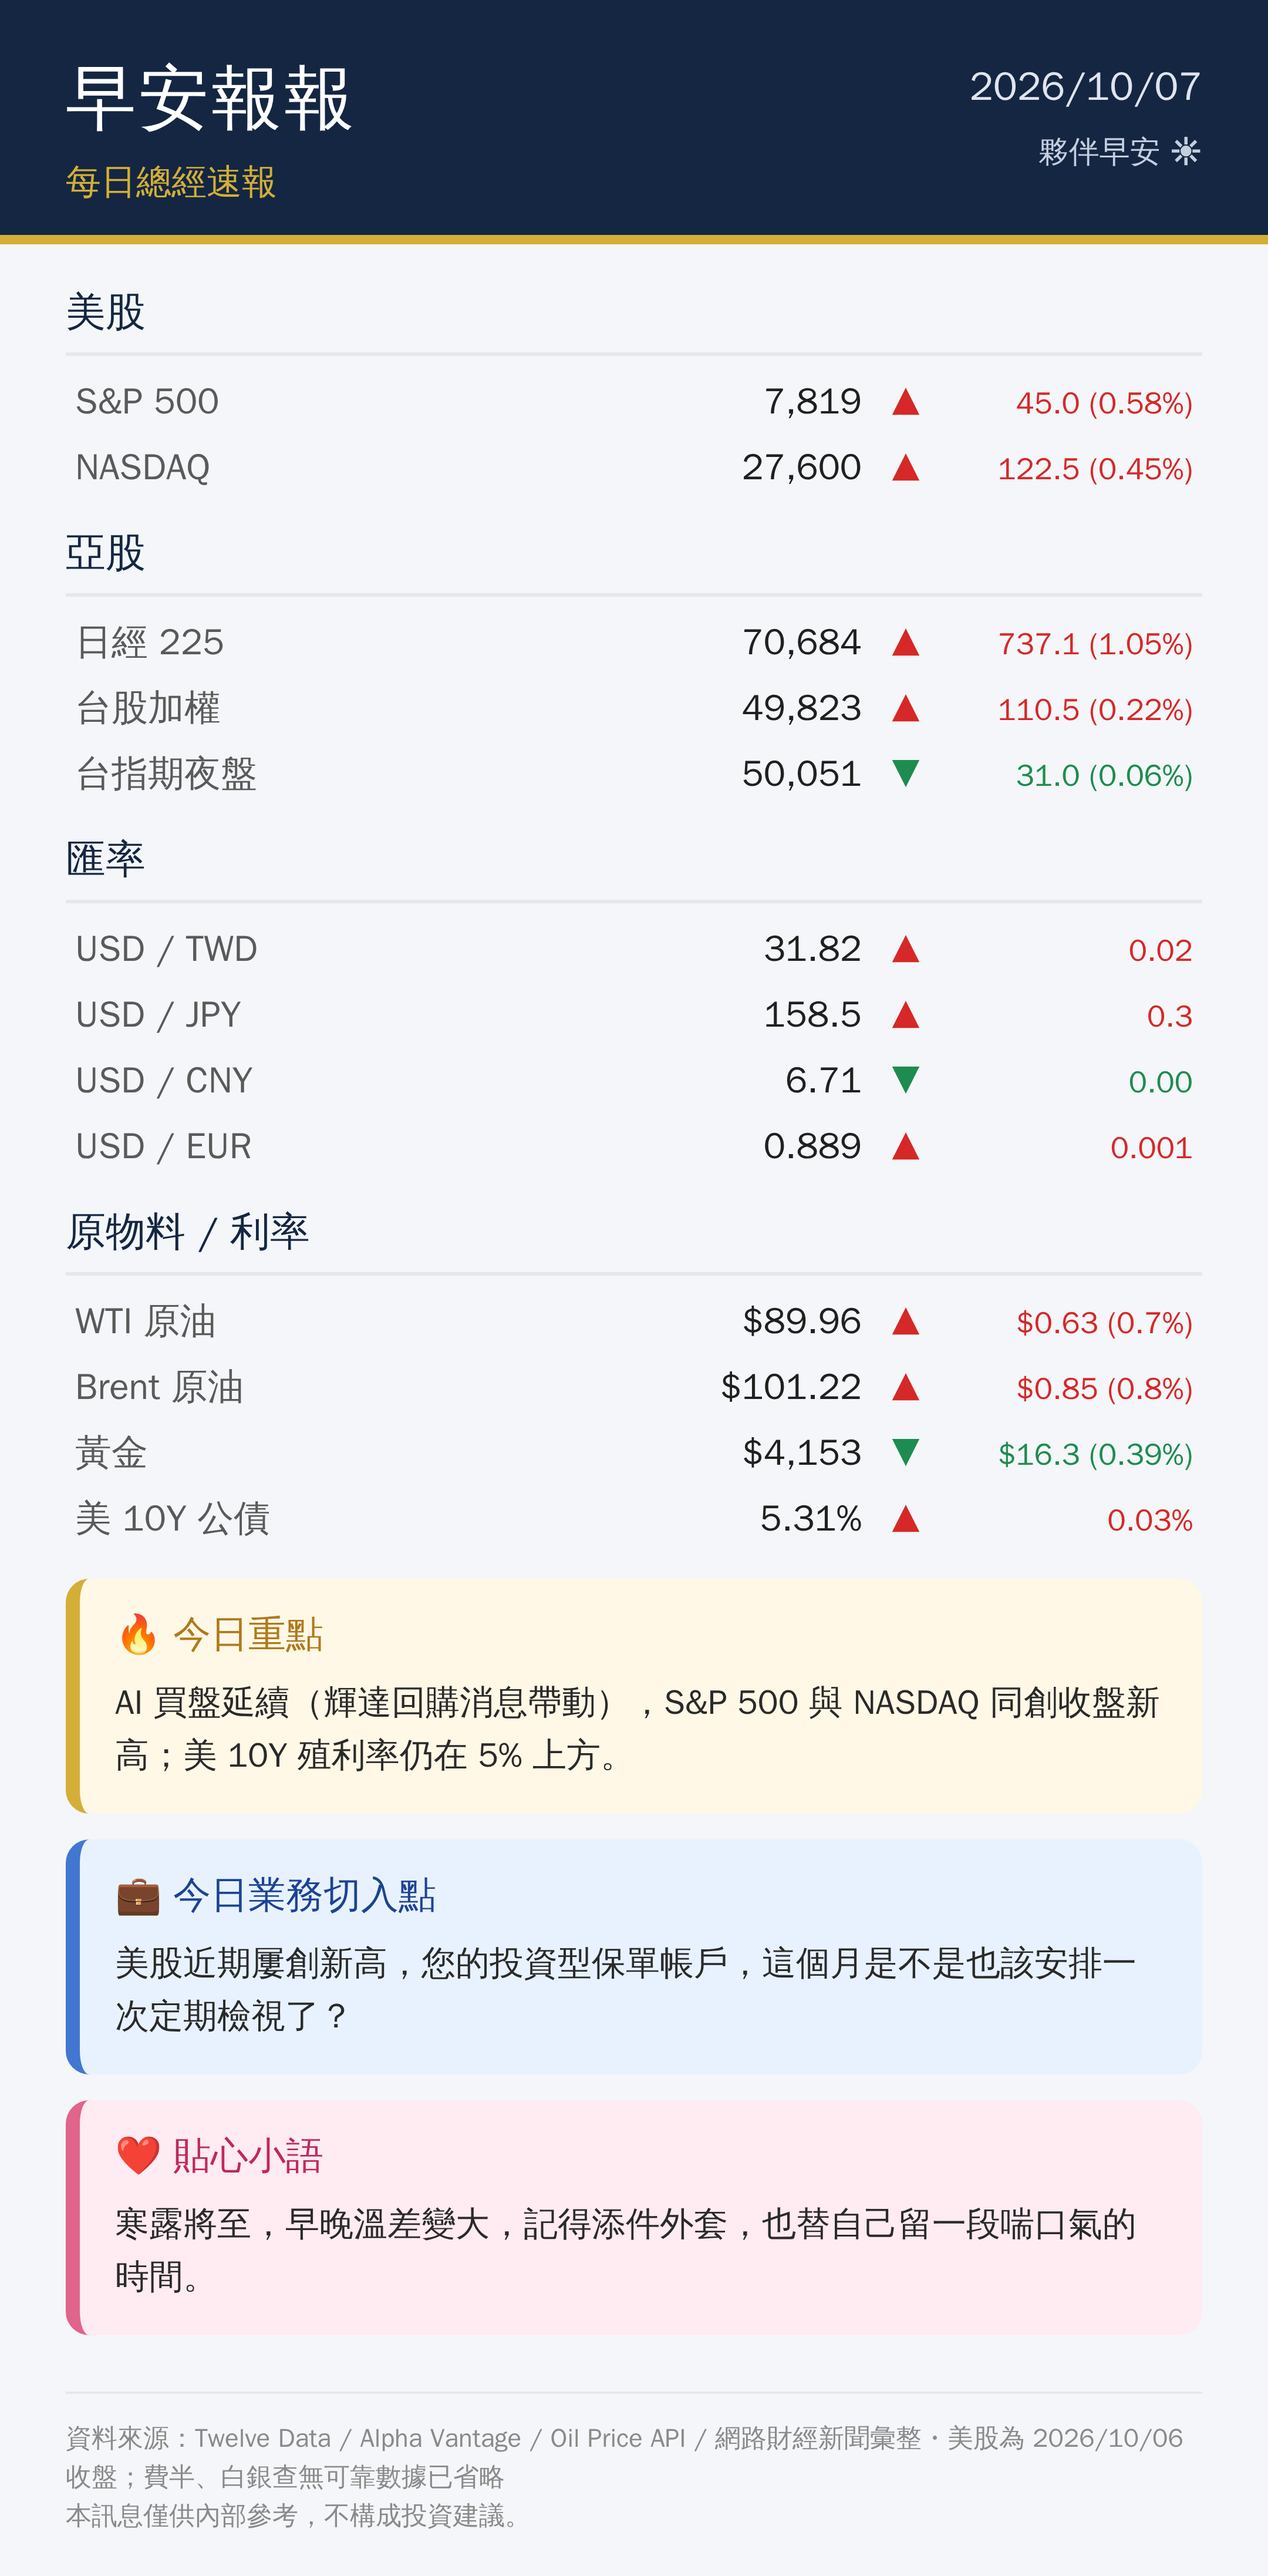
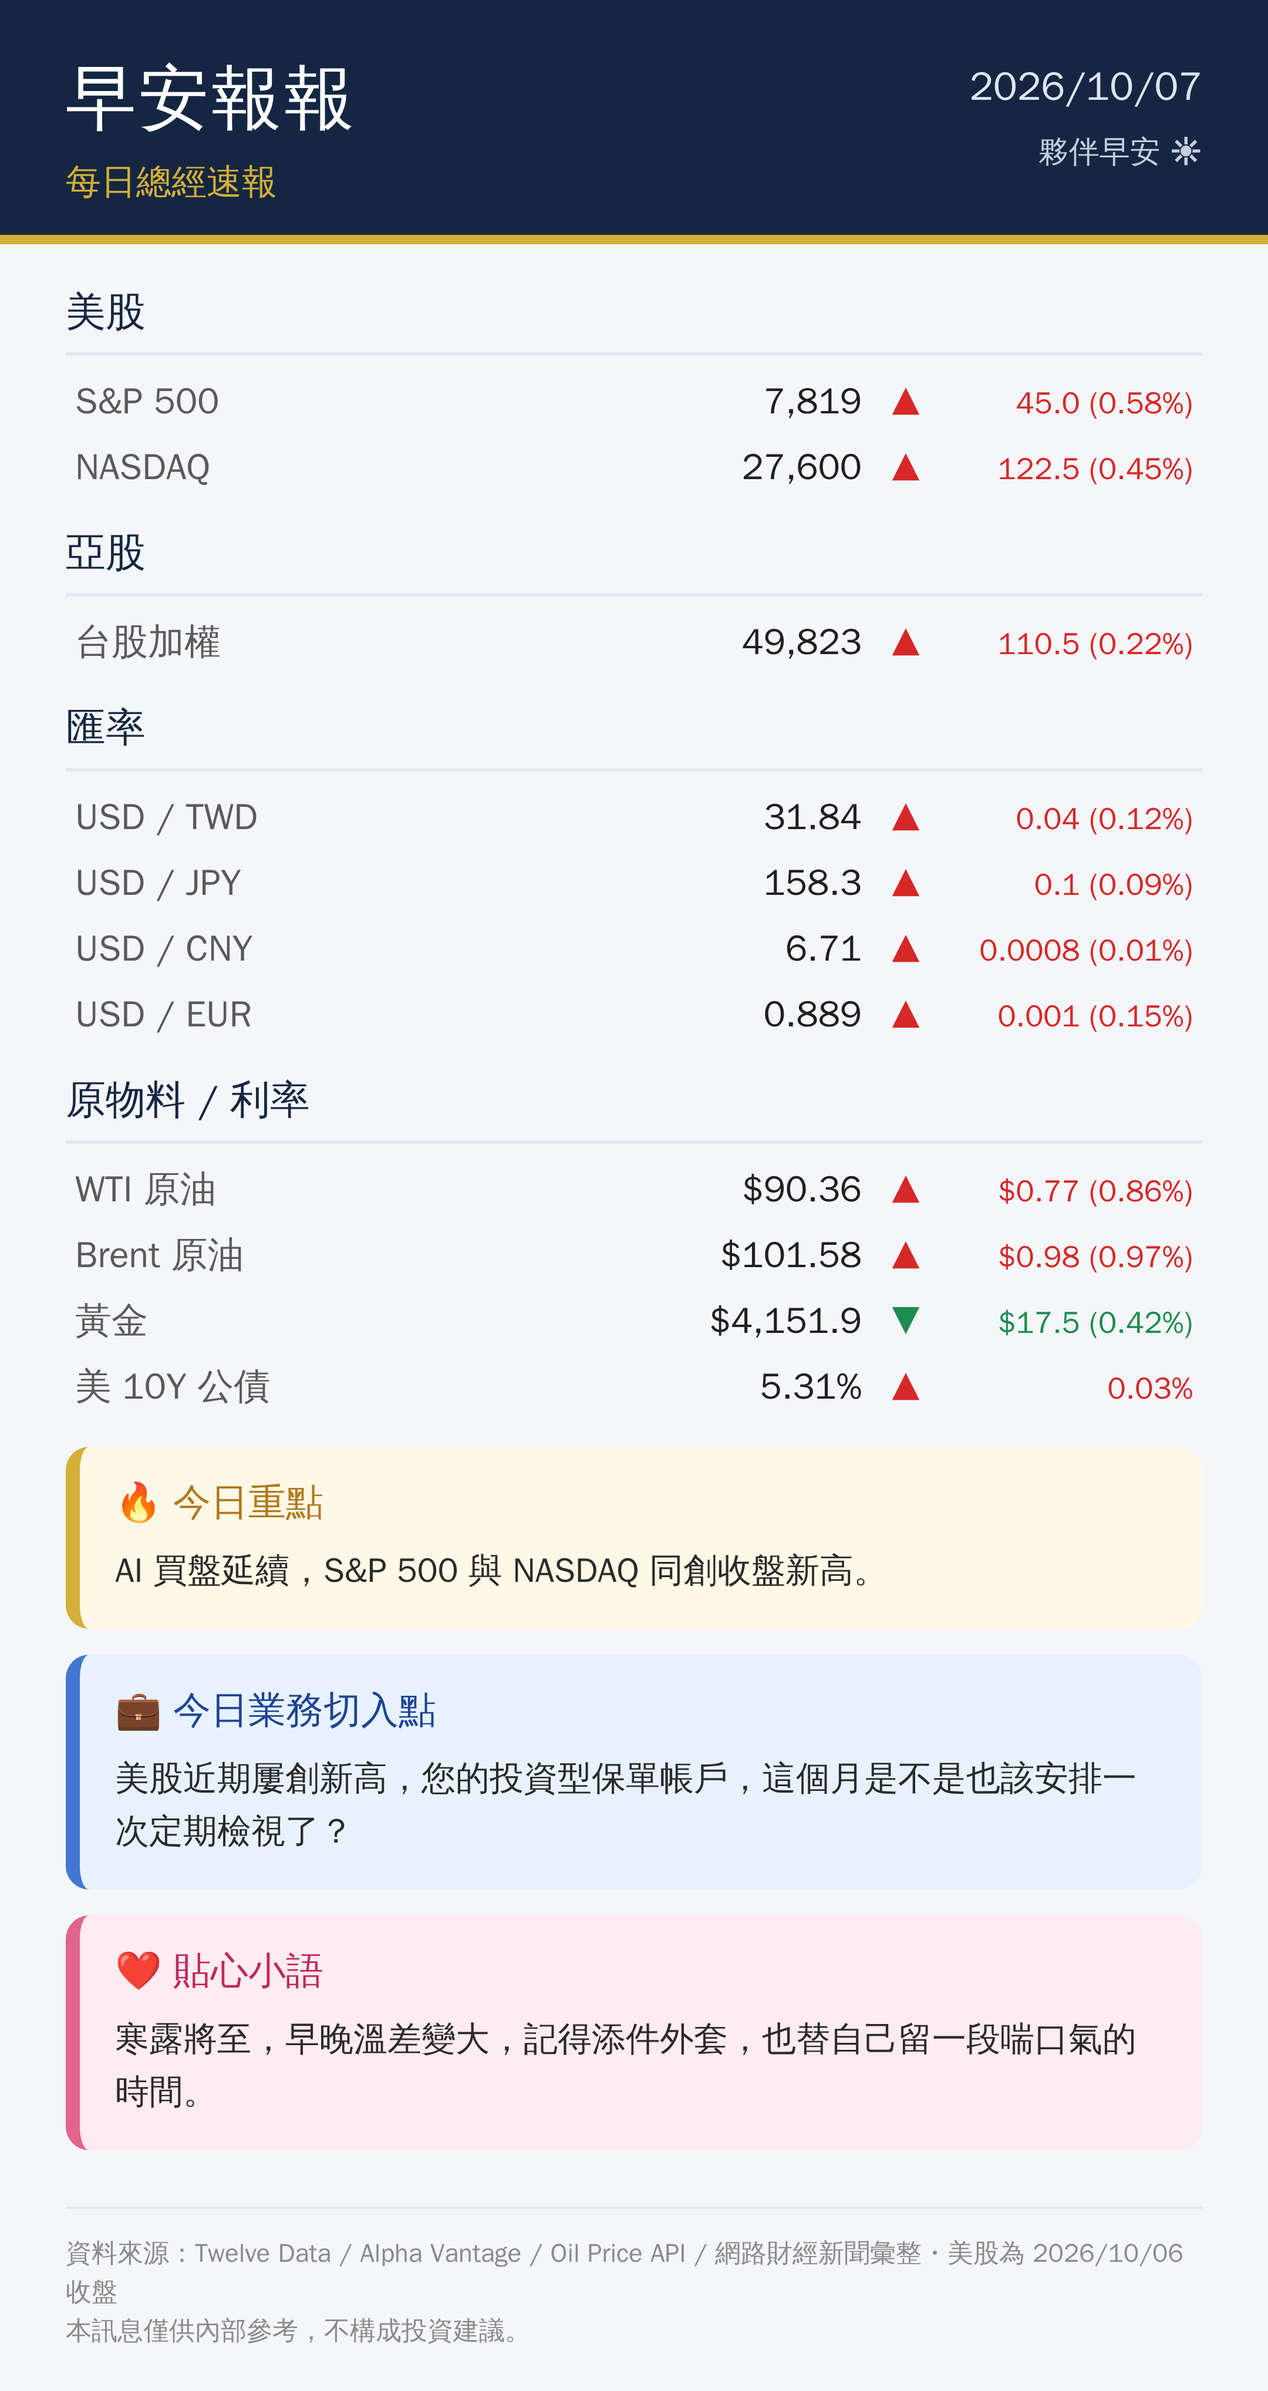
Daily macro report 2026-10-07 (validated, with provenance; not pushed to LINE)
Claude-Session: https://claude.ai/code/session_014iVJ3NyFoWPeHr43fMSmB6

diff --git a/reports/2026-10-07/card.html b/reports/2026-10-07/card.html
@@ -43,6 +43,6 @@
     <div class="brand-sub">每日總經速報</div>
     <div class="hdr-right"><div class="hdr-date">2026/10/07</div><div class="hdr-hi">夥伴早安 ☀</div></div>
   </div>
-  <div class="body"><div class="sec"><div class="sec-title">美股</div><div class="row"><span class="label">S&amp;P 500</span><span class="val">7,819</span><span class="arr" style="color:#d62828">▲</span><span class="pct" style="color:#d62828">45.0 (0.58%)</span></div><div class="row"><span class="label">NASDAQ</span><span class="val">27,600</span><span class="arr" style="color:#d62828">▲</span><span class="pct" style="color:#d62828">122.5 (0.45%)</span></div></div><div class="sec"><div class="sec-title">亞股</div><div class="row"><span class="label">日經 225</span><span class="val">70,684</span><span class="arr" style="color:#d62828">▲</span><span class="pct" style="color:#d62828">737.1 (1.05%)</span></div><div class="row"><span class="label">台股加權</span><span class="val">49,823</span><span class="arr" style="color:#d62828">▲</span><span class="pct" style="color:#d62828">110.5 (0.22%)</span></div><div class="row"><span class="label">台指期夜盤</span><span class="val">50,051</span><span class="arr" style="color:#1e8c50">▼</span><span class="pct" style="color:#1e8c50">31.0 (0.06%)</span></div></div><div class="sec"><div class="sec-title">匯率</div><div class="row"><span class="label">USD / TWD</span><span class="val">31.82</span><span class="arr" style="color:#d62828">▲</span><span class="pct" style="color:#d62828">0.02</span></div><div class="row"><span class="label">USD / JPY</span><span class="val">158.5</span><span class="arr" style="color:#d62828">▲</span><span class="pct" style="color:#d62828">0.3</span></div><div class="row"><span class="label">USD / CNY</span><span class="val">6.71</span><span class="arr" style="color:#1e8c50">▼</span><span class="pct" style="color:#1e8c50">0.00</span></div><div class="row"><span class="label">USD / EUR</span><span class="val">0.889</span><span class="arr" style="color:#d62828">▲</span><span class="pct" style="color:#d62828">0.001</span></div></div><div class="sec"><div class="sec-title">原物料 / 利率</div><div class="row"><span class="label">WTI 原油</span><span class="val">$89.96</span><span class="arr" style="color:#d62828">▲</span><span class="pct" style="color:#d62828">$0.63 (0.7%)</span></div><div class="row"><span class="label">Brent 原油</span><span class="val">$101.22</span><span class="arr" style="color:#d62828">▲</span><span class="pct" style="color:#d62828">$0.85 (0.8%)</span></div><div class="row"><span class="label">黃金</span><span class="val">$4,153</span><span class="arr" style="color:#1e8c50">▼</span><span class="pct" style="color:#1e8c50">$16.3 (0.39%)</span></div><div class="row"><span class="label">美 10Y 公債</span><span class="val">5.31%</span><span class="arr" style="color:#d62828">▲</span><span class="pct" style="color:#d62828">0.03%</span></div></div><div class="box box-gold"><div class="box-title">🔥 今日重點</div><div class="box-body">AI 買盤延續（輝達回購消息帶動），S&amp;P 500 與 NASDAQ 同創收盤新高；美 10Y 殖利率仍在 5% 上方。</div></div><div class="box box-blue"><div class="box-title">💼 今日業務切入點</div><div class="box-body">美股近期屢創新高，您的投資型保單帳戶，這個月是不是也該安排一次定期檢視了？</div></div><div class="box box-pink"><div class="box-title">❤ 貼心小語</div><div class="box-body">寒露將至，早晚溫差變大，記得添件外套，也替自己留一段喘口氣的時間。</div></div></div>
-  <div class="foot">資料來源：Twelve Data / Alpha Vantage / Oil Price API / 網路財經新聞彙整・美股為 2026/10/06 收盤；費半、白銀查無可靠數據已省略<br>本訊息僅供內部參考，不構成投資建議。</div>
+  <div class="body"><div class="sec"><div class="sec-title">美股</div><div class="row"><span class="label">S&amp;P 500</span><span class="val">7,819</span><span class="arr" style="color:#d62828">▲</span><span class="pct" style="color:#d62828">45.0 (0.58%)</span></div><div class="row"><span class="label">NASDAQ</span><span class="val">27,600</span><span class="arr" style="color:#d62828">▲</span><span class="pct" style="color:#d62828">122.5 (0.45%)</span></div></div><div class="sec"><div class="sec-title">亞股</div><div class="row"><span class="label">台股加權</span><span class="val">49,823</span><span class="arr" style="color:#d62828">▲</span><span class="pct" style="color:#d62828">110.5 (0.22%)</span></div></div><div class="sec"><div class="sec-title">匯率</div><div class="row"><span class="label">USD / TWD</span><span class="val">31.84</span><span class="arr" style="color:#d62828">▲</span><span class="pct" style="color:#d62828">0.04 (0.12%)</span></div><div class="row"><span class="label">USD / JPY</span><span class="val">158.3</span><span class="arr" style="color:#d62828">▲</span><span class="pct" style="color:#d62828">0.1 (0.09%)</span></div><div class="row"><span class="label">USD / CNY</span><span class="val">6.71</span><span class="arr" style="color:#d62828">▲</span><span class="pct" style="color:#d62828">0.0008 (0.01%)</span></div><div class="row"><span class="label">USD / EUR</span><span class="val">0.889</span><span class="arr" style="color:#d62828">▲</span><span class="pct" style="color:#d62828">0.001 (0.15%)</span></div></div><div class="sec"><div class="sec-title">原物料 / 利率</div><div class="row"><span class="label">WTI 原油</span><span class="val">$90.36</span><span class="arr" style="color:#d62828">▲</span><span class="pct" style="color:#d62828">$0.77 (0.86%)</span></div><div class="row"><span class="label">Brent 原油</span><span class="val">$101.58</span><span class="arr" style="color:#d62828">▲</span><span class="pct" style="color:#d62828">$0.98 (0.97%)</span></div><div class="row"><span class="label">黃金</span><span class="val">$4,151.9</span><span class="arr" style="color:#1e8c50">▼</span><span class="pct" style="color:#1e8c50">$17.5 (0.42%)</span></div><div class="row"><span class="label">美 10Y 公債</span><span class="val">5.31%</span><span class="arr" style="color:#d62828">▲</span><span class="pct" style="color:#d62828">0.03%</span></div></div><div class="box box-gold"><div class="box-title">🔥 今日重點</div><div class="box-body">AI 買盤延續，S&amp;P 500 與 NASDAQ 同創收盤新高。</div></div><div class="box box-blue"><div class="box-title">💼 今日業務切入點</div><div class="box-body">美股近期屢創新高，您的投資型保單帳戶，這個月是不是也該安排一次定期檢視了？</div></div><div class="box box-pink"><div class="box-title">❤ 貼心小語</div><div class="box-body">寒露將至，早晚溫差變大，記得添件外套，也替自己留一段喘口氣的時間。</div></div></div>
+  <div class="foot">資料來源：Twelve Data / Alpha Vantage / Oil Price API / 網路財經新聞彙整・美股為 2026/10/06 收盤<br>本訊息僅供內部參考，不構成投資建議。</div>
 </div></body></html>
